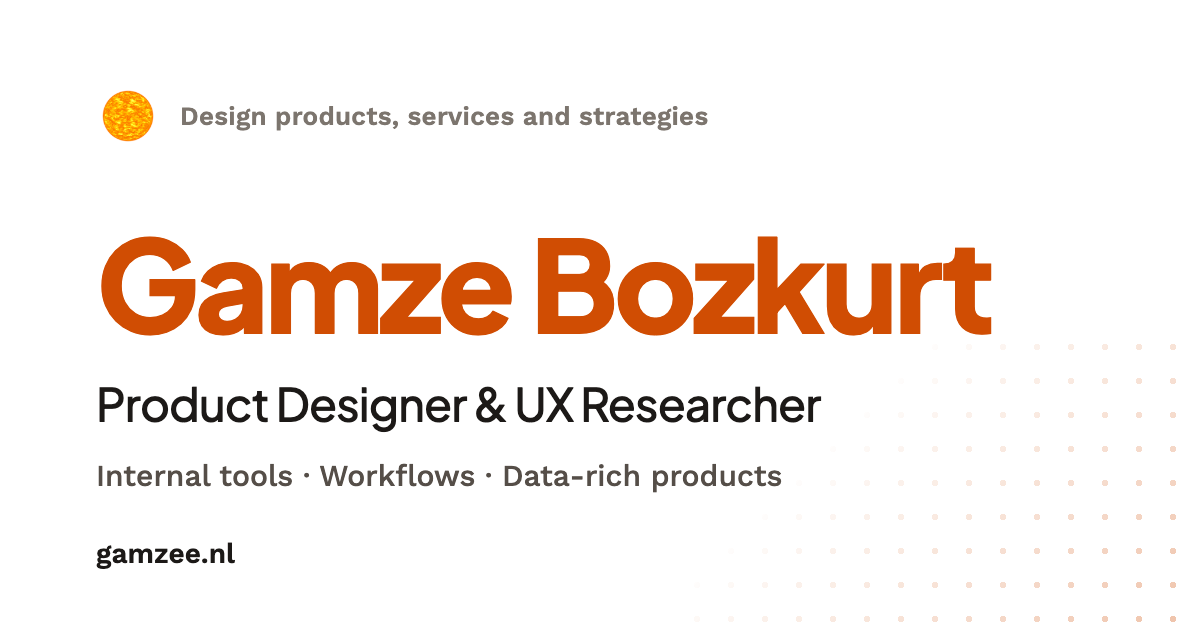
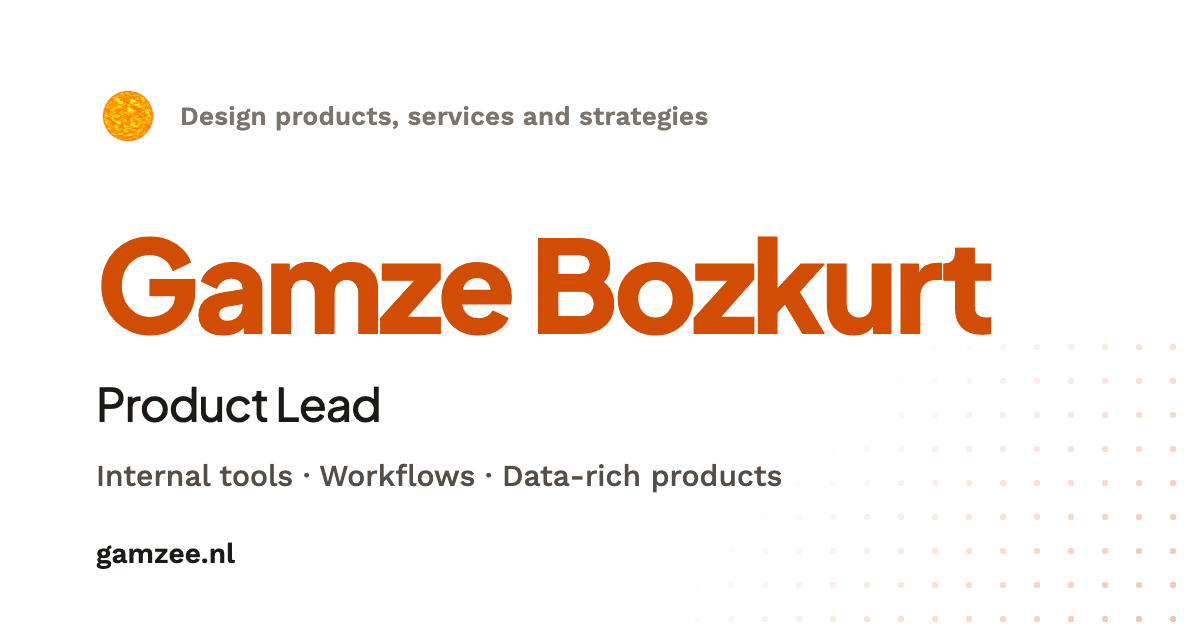
Use the title Product Lead in the tab title, search description and link preview

Changed region(s): [[0.1233, 0.6032, 0.6783, 0.6937]]

diff --git a/app/layout.js b/app/layout.js
@@ -36,7 +36,7 @@ export const metadata = {
     title: SITE_TITLE,
     description: SITE_DESCRIPTION,
     locale: "en_NL",
-    images: [{ url: OG_IMAGE, width: 1200, height: 630, alt: "Gamze Bozkurt — Product Designer & UX Researcher" }],
+    images: [{ url: OG_IMAGE, width: 1200, height: 630, alt: "Gamze Bozkurt — Product Lead" }],
   },
   twitter: {
     card: "summary_large_image",
@@ -52,7 +52,7 @@ const personJsonLd = {
   "@type": "Person",
   name: SITE_NAME,
   url: SITE_URL,
-  jobTitle: "Product Designer & UX Researcher",
+  jobTitle: "Product Lead",
   description: SITE_DESCRIPTION,
   address: { "@type": "PostalAddress", addressLocality: "Amsterdam", addressCountry: "NL" },
   knowsAbout: ["UX research", "Product design", "Internal tools", "Enterprise UX", "Workflow design", "Project management", "Service design"],

diff --git a/app/lib/site.js b/app/lib/site.js
@@ -2,7 +2,7 @@
 export const SITE_URL = 'https://www.gamzee.nl';
 export const SITE_NAME = 'Gamze Bozkurt';
 export const LINKEDIN_URL = 'https://www.linkedin.com/in/gamze-serviceandproductdesignstrategist/';
-export const SITE_TITLE = 'Gamze Bozkurt — Product Designer & UX Researcher in Amsterdam';
+export const SITE_TITLE = 'Gamze Bozkurt — Product Lead in Amsterdam';
 export const SITE_DESCRIPTION =
-  'Gamze Bozkurt is a product designer and UX researcher in Amsterdam. She designs internal tools, workflows and data-rich enterprise products, especially for Business-to-Employee (B2E) software.';
+  'Gamze Bozkurt is a product lead in Amsterdam. She designs internal tools, workflows and data-rich enterprise products, especially for Business-to-Employee (B2E) software.';
 export const OG_IMAGE = '/og-image.png';

diff --git a/app/work/[slug]/page.js b/app/work/[slug]/page.js
@@ -52,7 +52,7 @@ export async function generateMetadata({ params }) {
   const work = getWorkBySlug(slug);
   if (!work) return { title: 'Case study' };
   const title = `${work.navLabel || work.title} UX case study`;
-  const description = `${work.tagline}. A UX case study by Gamze Bozkurt, product designer and UX researcher in Amsterdam.`;
+  const description = `${work.tagline}. A UX case study by Gamze Bozkurt, product lead in Amsterdam.`;
   const url = `/work/${work.slug}`;
   return {
     title,
